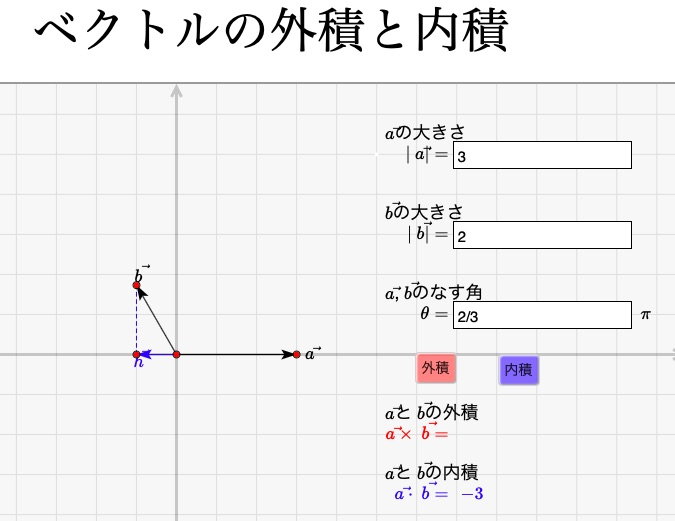
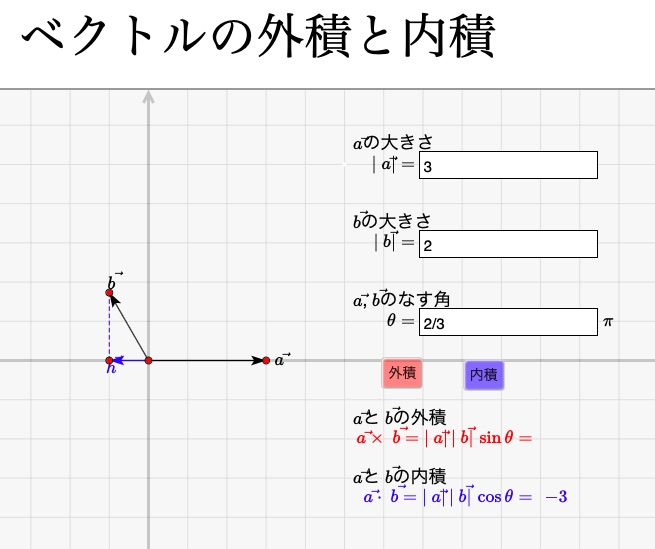
2020/05/26 4th revised

diff --git a/Cmath/LinearAlgebra/offL/inner-outer-productjsoffL.html b/Cmath/LinearAlgebra/offL/inner-outer-productjsoffL.html
@@ -2596,16 +2596,16 @@ Arrowdata("2",[O,B],[2,18,1,0.2]);
 Anglemark("1",[A,O,B],[1,"Expr=1.2,\theta"]);
 
 Letter([5,-1.5],"e","$\vec{\ a}$と$\vec{\ b}$の外積",["Size=1.5"]);
-Expr([7-0.1,-2],"w","\vec{\ a}\times\vec{\ b}=",["Size=1.5","Color=red"]);
+Expr([10-0.1,-2],"w","\vec{\ a}\times\vec{\ b}=|\vec{\ a}|\,|\vec{\ b}|\,\sin\theta=",["Size=1.5","Color=red"]);
 if(exflag==1,
  Listplot("da1",[A,A+B,B],["da","Color=red"]);
  Listplot("1",[O,A,A+B,B,O],["nodisp"]);
  Shade(["sg1"],["Color=red"]);
- Expr([7,-2],"e",text(parse(str1)*parse(str2)*sin(parse(str3)*pi)),["Size=1.5","Color=blue"]);
+ Expr([10,-2],"e",text(parse(str1)*parse(str2)*sin(parse(str3)*pi)),["Size=1.5","Color=blue"]);
 );
 
 Letter([5,-3],"e","$\vec{\ a}$と$\vec{\ b}$の内積",["Size=1.5"]);
-Expr([7-0.1,-3.5],"w","\vec{\ a}\cdot\vec{\ b}=",["Size=1.5","Color=blue"]);
+Expr([10-0.1,-3.5],"w","\vec{\ a}\cdot\vec{\ b}=|\vec{\ a}|\,|\vec{\ b}|\,\cos\theta=",["Size=1.5","Color=blue"]);
 if(inflag==1,
  if(parse(str3)!=1/2,
   Putpoint("H",parse(str2)*[cos(parse(str3)*pi),0]);
@@ -2613,7 +2613,7 @@ if(inflag==1,
   Arrowdata("3",[O,H],[2,18,1,0.2,"Color=blue"]);
   Listplot("da2",[B,H],["da","Color=blue"]);
  );
- Expr([7,-3.5],"e",text(parse(str1)*parse(str2)*cos(parse(str3)*pi)),["Size=1.5","Color=blue"]);
+ Expr([10,-3.5],"e",text(parse(str1)*parse(str2)*cos(parse(str3)*pi)),["Size=1.5","Color=blue"]);
 );
 
 Windispg();
@@ -2639,16 +2639,16 @@ var cdy = CindyJS({
     {name: "B", type: "Free", pos: [-0.0, -4.0, -4.0], color: [1.0, 0.0, 0.0], labeled: false, size: 3.0, border: true },
     {name: "Text51", type: "EditableText", pos: [7,4.8,1], color: [0.0, 0.0, 0.0], fillcolor: [1.0, 1.0, 1.0], fillalpha: 1.0, text: "", textsize: 15.0},
     {name: "Text52", type: "EditableText", pos: [7,2.8,1], color: [0.0, 0.0, 0.0], fillcolor: [1.0, 1.0, 1.0], fillalpha: 1.0, text: "", textsize: 15.0},
-    {name: "Text60", type: "Button", pos: [4.0, -0.29387755102040813, 0.6534704935211028], color: [0.0, 0.0, 0.0], fillcolor: [1.0, 0.0, 0.0], fillalpha: 0.4700854700854701, script: "exflag=mod(exflag+1,2);", text: "外積", textsize: 14.0},
     {name: "Text53", type: "EditableText", pos: [7,0.8,1], color: [0.0, 0.0, 0.0], fillcolor: [1.0, 1.0, 1.0], fillalpha: 1.0, text: "", textsize: 15.0},
-    {name: "Text61", type: "Button", pos: [4.0, -0.2439024390243902, 0.4881105820508237], color: [0.0, 0.0, 0.0], fillcolor: [0.0, 0.0, 1.0], fillalpha: 0.5811965811965812, script: "inflag=mod(inflag+1,2);", text: "内積", textsize: 14.0},
-    {name: "H", type: "Free", pos: [0.0, 0.0, 4.0], color: [1.0, 0.0, 0.0], labeled: false, size: 3.0, border: true }
+    {name: "H", type: "Free", pos: [0.0, 0.0, 4.0], color: [1.0, 0.0, 0.0], labeled: false, size: 3.0, border: true },
+    {name: "Text60", type: "Button", pos: [4.0, -0.29387755102040813, 0.6534704935211028], color: [0.0, 0.0, 0.0], fillcolor: [1.0, 0.0, 0.0], fillalpha: 0.4700854700854701, script: "exflag=mod(exflag+1,2);", text: "外積", textsize: 14.0},
+    {name: "Text61", type: "Button", pos: [4.0, -0.2439024390243902, 0.4881105820508237], color: [0.0, 0.0, 0.0], fillcolor: [0.0, 0.0, 1.0], fillalpha: 0.5811965811965812, script: "inflag=mod(inflag+1,2);", text: "内積", textsize: 14.0}
   ],
   ports: [{
     id: "CSCanvas",
-    width: 749,
-    height: 521,
-    transform: [{visibleRect: [-5.983750024524068, 6.758264641477078, 12.72952249475997, -6.258577791829975]}],
+    width: 770,
+    height: 538,
+    transform: [{visibleRect: [-5.725983359766858, 6.899236074908397, 13.913246871950205, -6.822719593486123]}],
     axes: true,
     grid: 1.0,
     snap: true,

diff --git a/JHmath/HB/offL/inner-outer-productjsoffL.html b/JHmath/HB/offL/inner-outer-productjsoffL.html
@@ -2596,16 +2596,16 @@ Arrowdata("2",[O,B],[2,18,1,0.2]);
 Anglemark("1",[A,O,B],[1,"Expr=1.2,\theta"]);
 
 Letter([5,-1.5],"e","$\vec{\ a}$と$\vec{\ b}$の外積",["Size=1.5"]);
-Expr([7-0.1,-2],"w","\vec{\ a}\times\vec{\ b}=",["Size=1.5","Color=red"]);
+Expr([10-0.1,-2],"w","\vec{\ a}\times\vec{\ b}=|\vec{\ a}|\,|\vec{\ b}|\,\sin\theta=",["Size=1.5","Color=red"]);
 if(exflag==1,
  Listplot("da1",[A,A+B,B],["da","Color=red"]);
  Listplot("1",[O,A,A+B,B,O],["nodisp"]);
  Shade(["sg1"],["Color=red"]);
- Expr([7,-2],"e",text(parse(str1)*parse(str2)*sin(parse(str3)*pi)),["Size=1.5","Color=blue"]);
+ Expr([10,-2],"e",text(parse(str1)*parse(str2)*sin(parse(str3)*pi)),["Size=1.5","Color=blue"]);
 );
 
 Letter([5,-3],"e","$\vec{\ a}$と$\vec{\ b}$の内積",["Size=1.5"]);
-Expr([7-0.1,-3.5],"w","\vec{\ a}\cdot\vec{\ b}=",["Size=1.5","Color=blue"]);
+Expr([10-0.1,-3.5],"w","\vec{\ a}\cdot\vec{\ b}=|\vec{\ a}|\,|\vec{\ b}|\,\cos\theta=",["Size=1.5","Color=blue"]);
 if(inflag==1,
  if(parse(str3)!=1/2,
   Putpoint("H",parse(str2)*[cos(parse(str3)*pi),0]);
@@ -2613,7 +2613,7 @@ if(inflag==1,
   Arrowdata("3",[O,H],[2,18,1,0.2,"Color=blue"]);
   Listplot("da2",[B,H],["da","Color=blue"]);
  );
- Expr([7,-3.5],"e",text(parse(str1)*parse(str2)*cos(parse(str3)*pi)),["Size=1.5","Color=blue"]);
+ Expr([10,-3.5],"e",text(parse(str1)*parse(str2)*cos(parse(str3)*pi)),["Size=1.5","Color=blue"]);
 );
 
 Windispg();
@@ -2639,16 +2639,16 @@ var cdy = CindyJS({
     {name: "B", type: "Free", pos: [-0.0, -4.0, -4.0], color: [1.0, 0.0, 0.0], labeled: false, size: 3.0, border: true },
     {name: "Text51", type: "EditableText", pos: [7,4.8,1], color: [0.0, 0.0, 0.0], fillcolor: [1.0, 1.0, 1.0], fillalpha: 1.0, text: "", textsize: 15.0},
     {name: "Text52", type: "EditableText", pos: [7,2.8,1], color: [0.0, 0.0, 0.0], fillcolor: [1.0, 1.0, 1.0], fillalpha: 1.0, text: "", textsize: 15.0},
-    {name: "Text60", type: "Button", pos: [4.0, -0.29387755102040813, 0.6534704935211028], color: [0.0, 0.0, 0.0], fillcolor: [1.0, 0.0, 0.0], fillalpha: 0.4700854700854701, script: "exflag=mod(exflag+1,2);", text: "外積", textsize: 14.0},
     {name: "Text53", type: "EditableText", pos: [7,0.8,1], color: [0.0, 0.0, 0.0], fillcolor: [1.0, 1.0, 1.0], fillalpha: 1.0, text: "", textsize: 15.0},
-    {name: "Text61", type: "Button", pos: [4.0, -0.2439024390243902, 0.4881105820508237], color: [0.0, 0.0, 0.0], fillcolor: [0.0, 0.0, 1.0], fillalpha: 0.5811965811965812, script: "inflag=mod(inflag+1,2);", text: "内積", textsize: 14.0},
-    {name: "H", type: "Free", pos: [0.0, 0.0, 4.0], color: [1.0, 0.0, 0.0], labeled: false, size: 3.0, border: true }
+    {name: "H", type: "Free", pos: [0.0, 0.0, 4.0], color: [1.0, 0.0, 0.0], labeled: false, size: 3.0, border: true },
+    {name: "Text60", type: "Button", pos: [4.0, -0.29387755102040813, 0.6534704935211028], color: [0.0, 0.0, 0.0], fillcolor: [1.0, 0.0, 0.0], fillalpha: 0.4700854700854701, script: "exflag=mod(exflag+1,2);", text: "外積", textsize: 14.0},
+    {name: "Text61", type: "Button", pos: [4.0, -0.2439024390243902, 0.4881105820508237], color: [0.0, 0.0, 0.0], fillcolor: [0.0, 0.0, 1.0], fillalpha: 0.5811965811965812, script: "inflag=mod(inflag+1,2);", text: "内積", textsize: 14.0}
   ],
   ports: [{
     id: "CSCanvas",
-    width: 749,
-    height: 521,
-    transform: [{visibleRect: [-5.983750024524068, 6.758264641477078, 12.72952249475997, -6.258577791829975]}],
+    width: 770,
+    height: 538,
+    transform: [{visibleRect: [-5.725983359766858, 6.899236074908397, 13.913246871950205, -6.822719593486123]}],
     axes: true,
     grid: 1.0,
     snap: true,

diff --git a/Cmath/LinearAlgebra/offL/inner-outer-productmainoff.html b/Cmath/LinearAlgebra/offL/inner-outer-productmainoff.html
@@ -13,7 +13,7 @@
 <p></p>
 <p><font size="10">&emsp;&emsp;ベクトルの外積と内積</font></p>
 <p></p>
-<iframe src="inner-outer-productjsoffL.html" width="749" height="521"></iframe>
+<iframe src="inner-outer-productjsoffL.html" width="770" height="538"></iframe>
 <p><font size="5">(1)&emsp;$\vec{\ a}$の大きさを定める</font><br>
 <p><font size="5">(2)&emsp;$\vec{\ b}$の大きさとなす角$\theta$を定める．</font><br>
 <p><font size="5">(3)&emsp;外積ボタンまたは内積ボタンをクリックして，外積または内積の値を確認する．</font></p>

diff --git a/JHmath/HB/offL/inner-outer-productmainoff.html b/JHmath/HB/offL/inner-outer-productmainoff.html
@@ -13,7 +13,7 @@
 <p></p>
 <p><font size="10">&emsp;&emsp;ベクトルの外積と内積</font></p>
 <p></p>
-<iframe src="inner-outer-productjsoffL.html" width="749" height="521"></iframe>
+<iframe src="inner-outer-productjsoffL.html" width="770" height="538"></iframe>
 <p><font size="5">(1)&emsp;$\vec{\ a}$の大きさを定める</font><br>
 <p><font size="5">(2)&emsp;$\vec{\ b}$の大きさとなす角$\theta$を定める．</font><br>
 <p><font size="5">(3)&emsp;外積ボタンまたは内積ボタンをクリックして，外積または内積の値を確認する．</font></p>
